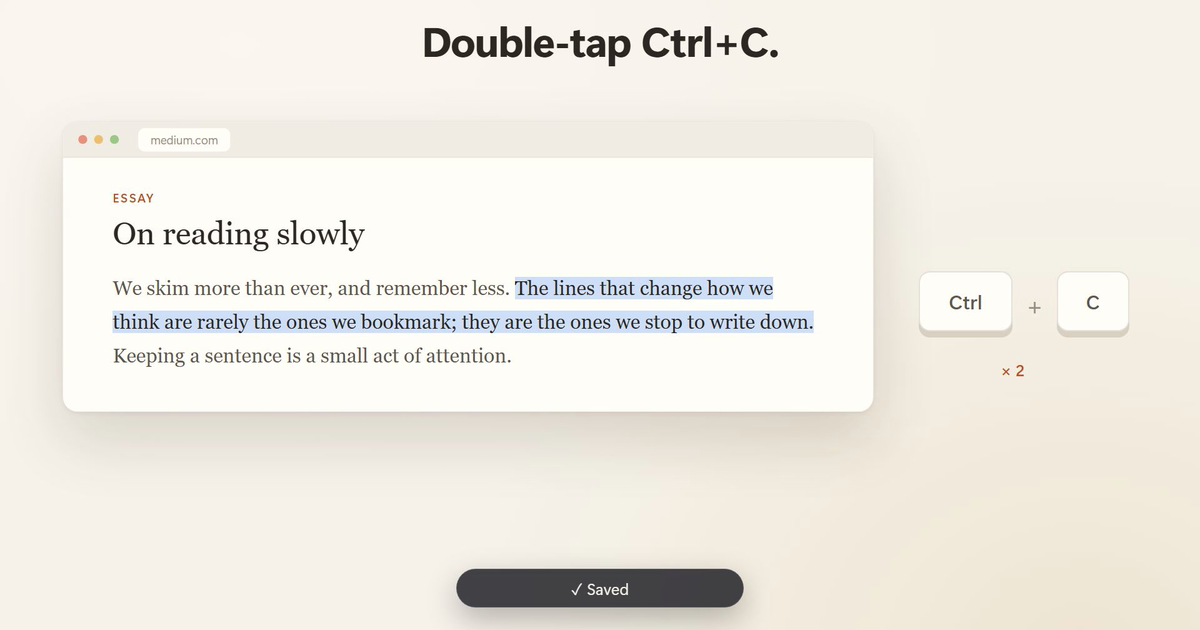
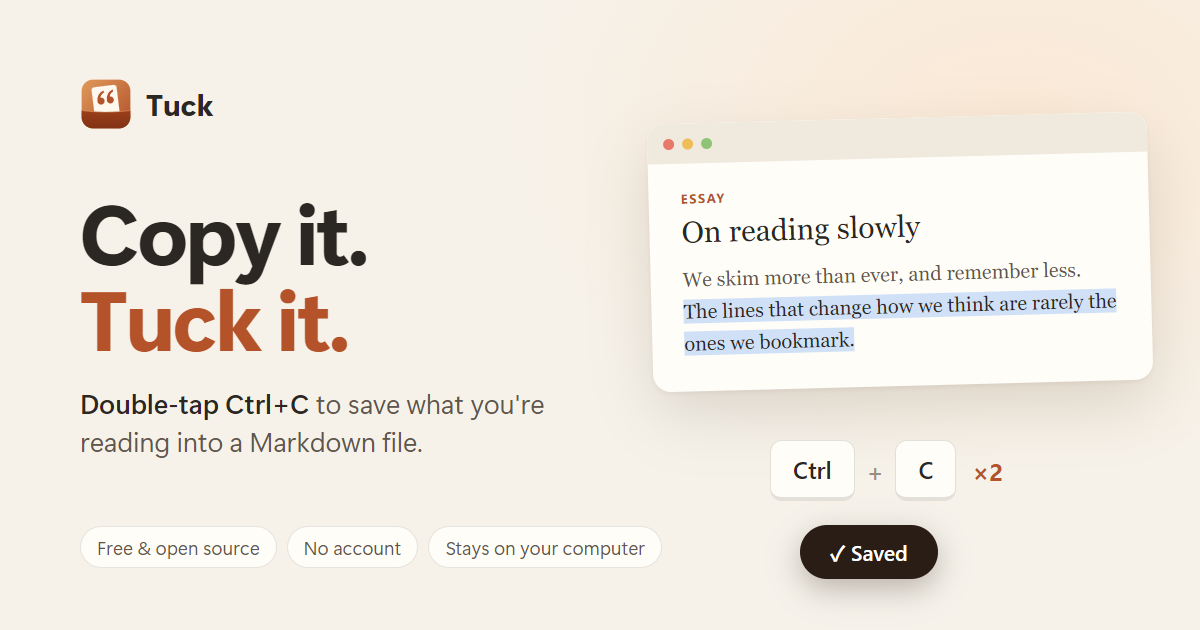
Social card: designed OG image (slogan, demo card, Ctrl+C x2)

diff --git a/scripts/og/og.html b/scripts/og/og.html
@@ -1,0 +1,40 @@
+<!-- Source of docs/og.png (1200x630). Render with an offscreen 1200x630 Electron window at zoom 1 and capturePage(). -->
+<!doctype html><html><head><meta charset="utf-8"><style>
+*{box-sizing:border-box;margin:0}
+html,body{width:1200px;height:630px;overflow:hidden}
+body{background:radial-gradient(900px 600px at 85% 20%,#fbe9d6 0,transparent 60%),#f6f2ea;font-family:"Segoe UI Variable Display","Segoe UI",sans-serif;color:#2b2722;position:relative}
+.l{position:absolute;left:80px;top:78px;width:520px}
+.brand{display:flex;align-items:center;gap:14px;font-size:30px;font-weight:700;letter-spacing:-.01em}
+.brand img{width:52px;height:52px}
+h1{margin-top:58px;font-size:84px;line-height:1.02;font-weight:800;letter-spacing:-.035em}
+h1 em{font-style:normal;color:#b4532a;display:block}
+p{margin-top:26px;font-size:27px;line-height:1.4;color:#5f574d}
+p b{color:#2b2722;font-weight:600}
+.chips{position:absolute;left:80px;bottom:62px;display:flex;gap:10px}
+.chips span{font-size:19px;color:#5f574d;background:#fffdf8;border:1px solid rgba(60,45,25,.12);border-radius:99px;padding:7px 16px}
+.card{position:absolute;left:650px;top:118px;width:500px;background:#fffdf8;border-radius:18px;box-shadow:0 2px 4px rgba(60,40,20,.06),0 24px 60px rgba(60,40,20,.14);overflow:hidden;transform:rotate(-1.5deg)}
+.bar{height:40px;background:#efe9de;display:flex;align-items:center;gap:8px;padding:0 16px}
+.bar i{width:11px;height:11px;border-radius:50%;background:#e8796a}.bar i:nth-child(2){background:#eebd5a}.bar i:nth-child(3){background:#8fc477}
+.body{padding:26px 32px 32px;font-family:Georgia,serif}
+.k{font:700 13px "Segoe UI";letter-spacing:.12em;color:#b4532a}
+.t{font-size:30px;margin:8px 0 14px}
+.x{font-size:20px;line-height:1.6;color:#5f574d}
+.x mark{background:#cfe0f7;color:#2b2722;padding:1px 0}
+.keys{position:absolute;left:770px;top:440px;display:flex;align-items:center;gap:12px;font:600 24px "Segoe UI";color:#978d80}
+.cap{background:#fffdf8;border:1px solid rgba(60,45,25,.14);border-bottom-width:4px;border-radius:12px;padding:12px 22px;color:#2b2722}
+.x2{color:#b4532a;font-weight:700;margin-left:4px}
+.toast{position:absolute;left:800px;top:525px;background:#2a1d16;color:#fff;font:600 21px "Segoe UI";border-radius:99px;padding:12px 30px;box-shadow:0 10px 30px rgba(42,29,22,.3)}
+</style></head><body>
+<div class="l">
+ <div class="brand"><img src="../../docs/icon.svg">Tuck</div>
+ <h1>Copy it.<em>Tuck it.</em></h1>
+ <p><b>Double-tap Ctrl+C</b> to save what you're reading into a Markdown file.</p>
+</div>
+<div class="chips"><span>Free &amp; open source</span><span>No account</span><span>Stays on your computer</span></div>
+<div class="card"><div class="bar"><i></i><i></i><i></i></div><div class="body">
+ <div class="k">ESSAY</div><div class="t">On reading slowly</div>
+ <div class="x">We skim more than ever, and remember less. <mark>The lines that change how we think are rarely the ones we bookmark.</mark></div>
+</div></div>
+<div class="keys"><span class="cap">Ctrl</span>+<span class="cap">C</span><span class="x2">×2</span></div>
+<div class="toast">✓ Saved</div>
+</body></html>
